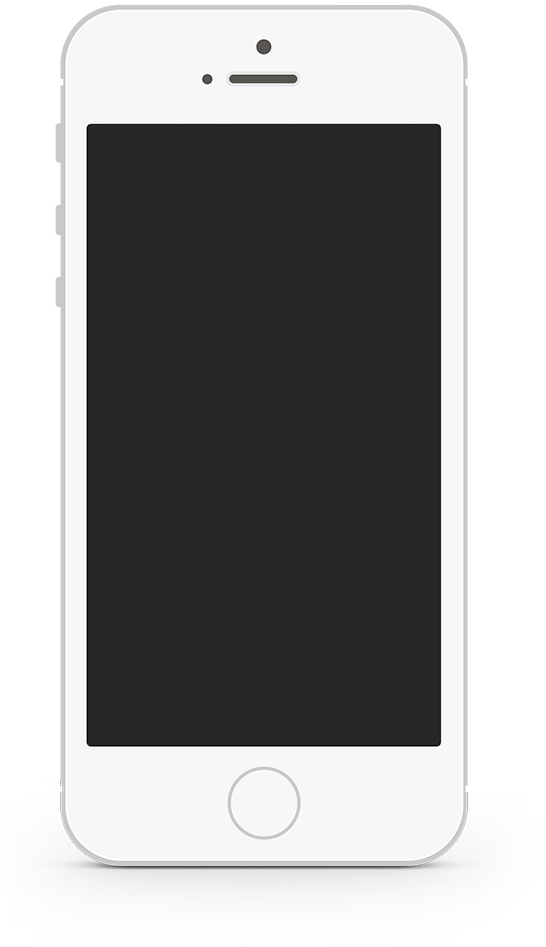
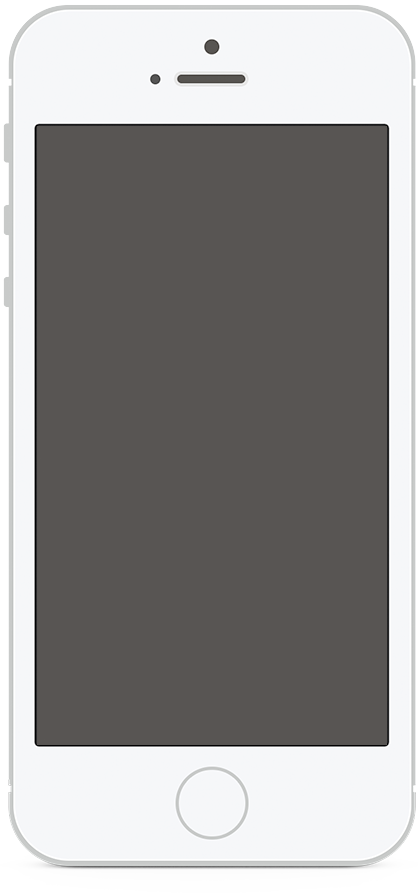
Complete animating iphone

diff --git a/index.html b/index.html
@@ -39,7 +39,11 @@
                 </nav>
             </header>
             <div class="cta clearfix">
-                <div class="cta-img"> <img class="iphone" src="img/iphone.png" alt="iphone"> </div>
+                <div class="cta-img">
+                    <img class="iphone-off" src="img/iphone-off.png" alt="iphone-off">
+                    <img class="iphone-btn" src="img/iphone-btn.png" alt="iphone-btn">
+                    <img class="iphone-on" src="img/iphone-on.png" alt="iphone-on">
+                </div>
                 <div class="cta-info">
                     <h2>Chocolate pudding dessert jelly</h2>
                     <p>Fruitcake donut gummies. Candy liquorice buiscuit. Sugar plum jelly gummi bears brownie toffee cupcake caramels brownie cookie.</p>

diff --git a/css/style.css b/css/style.css
@@ -257,14 +257,26 @@ nav {
 }
 
 .cta-img {
-    /*    text-align: right;*/
     position: absolute;
     float: right;
     right: 0px;
 }
 
-.iphone {
+.iphone-off {
     width: 85%;
+}
+
+.iphone-on {
+    animation-delay: 2s;
+    position: absolute;
+    right: 89px;
+    top: 109px;
+    width: 71%;
+}
+
+.iphone-btn {
+    position: absolute;
+    right: 115px;
 }
 
 .download-btn {

diff --git a/js/main.js b/js/main.js
@@ -1,0 +1,11 @@
+$(document).ready(function(){
+    $('.cta-img').waypoint(function(direction){
+        $('.cta-img').addClass('animated slideInUp');
+        $('.iphone-btn').delay(1500).animate({top: "+=3"},200);
+        $('.iphone-btn').delay(200).animate({top: "+=-3"},100);
+        $('.iphone-on').addClass('animated fadeIn');
+    },{
+        offset: '70%'
+    });
+    
+});
